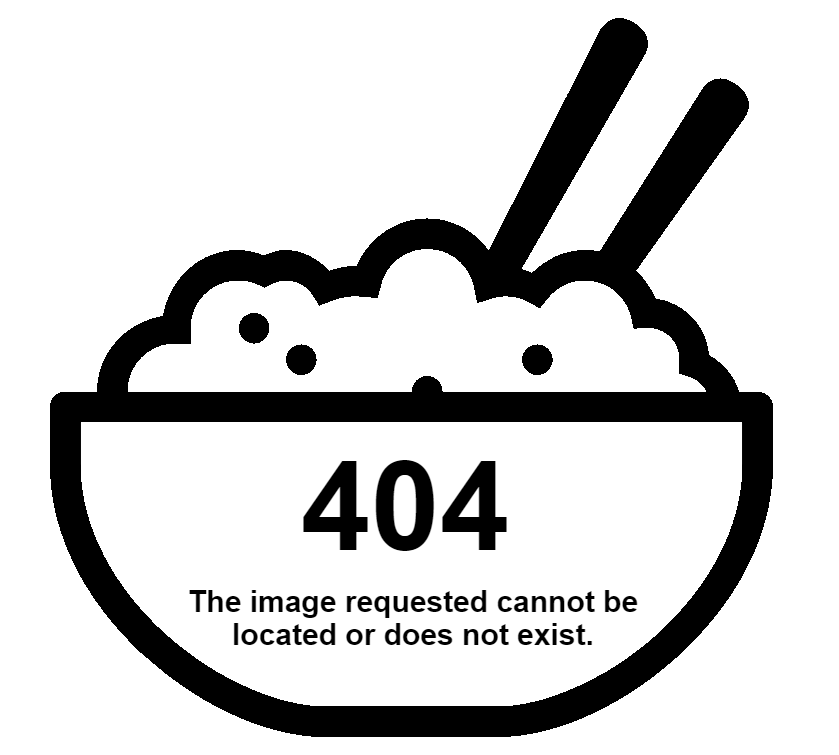
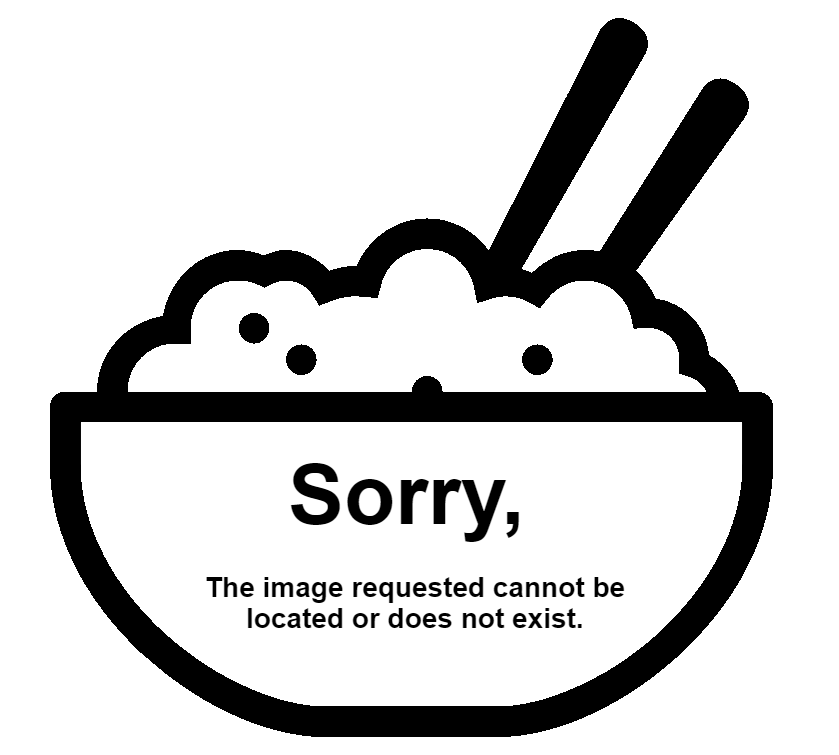
minor changes to image404 and main page

Changed region(s): [[0.2169, 0.7616, 0.7747, 0.853], [0.3409, 0.6093, 0.6198, 0.7311]]

diff --git a/index.html b/index.html
@@ -25,7 +25,7 @@
 	<h1 class="header-text">Updates: <br>
 	• changed style <br>
 	• added GIFS <br>
-	• added phone number and stuff in "About" <br>
+	• added contact info <br>
 	• initialized projects database <br>
 	</h1>
 	<br>
